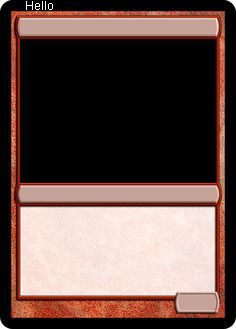
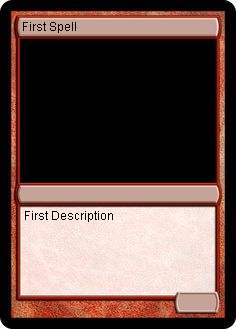
Add Template Write Methods

Changed region(s): [[0.089, 0.6383, 0.4746, 0.6687], [0.089, 0.0608, 0.3263, 0.0912], [0.089, 0.0, 0.2373, 0.0304]]

diff --git a/src/Main.java b/src/Main.java
@@ -15,8 +15,6 @@ public class Main {
 	
 	public static final String csvFileName = "./res/csv/sample.csv";
 	public static final String templateFileName = "./res/images/template.jpg";
-	public static final int height = 100;
-	public static final int width = 100;
 
 	public static void main(String[] args) throws IOException {
 		CSVParser parser = CSVParser.parse(new File(csvFileName), Charset.defaultCharset(), CSVFormat.DEFAULT.withFirstRecordAsHeader());
@@ -24,18 +22,36 @@ public class Main {
 		int cardCount = 1;
 		
 		for(CSVRecord record : parser) {
-			System.out.println(record.get("Spell Name") + "\t" + record.get("Spell Description"));
-		}
-		
-		
-		BufferedImage img = ImageIO.read(new File(templateFileName));
-		
-		Graphics2D g = img.createGraphics();
-		
-		g.setColor(Color.WHITE);
-		g.drawString("Hello", 25, 10);
-		
-		ImageIO.write(img, "png", new File("./res/images/sample-" + cardCount+ ".png"));
+			BufferedImage img = ImageIO.read(new File(templateFileName));
+			
+			Graphics2D g = img.createGraphics();
+			
+			writeTop(g, record.get("Spell Name"));
+			writeDesc(g, record.get("Spell Description"));
+			
+			ImageIO.write(img, "png", new File("./res/images/sample-" + cardCount + ".png"));
+			
+			cardCount++;
+		}		
 	}
-
+	
+	public static void writeTop(Graphics2D g, String s) {
+		g.setColor(Color.BLACK);
+		g.drawString(s, 22, 31);
+	}
+	
+	public static void writeMiddle(Graphics2D g, String s) {
+		g.setColor(Color.BLACK);
+		g.drawString(s, 22, 199);
+	}
+	
+	public static void writeDesc(Graphics2D g, String s) {
+		g.setColor(Color.BLACK);
+		g.drawString(s, 24, 220);
+	}
+	
+	public static void writeBottom(Graphics2D g, String s) {
+		g.setColor(Color.BLACK);
+		g.drawString(s, 181, 307);
+	}
 }
